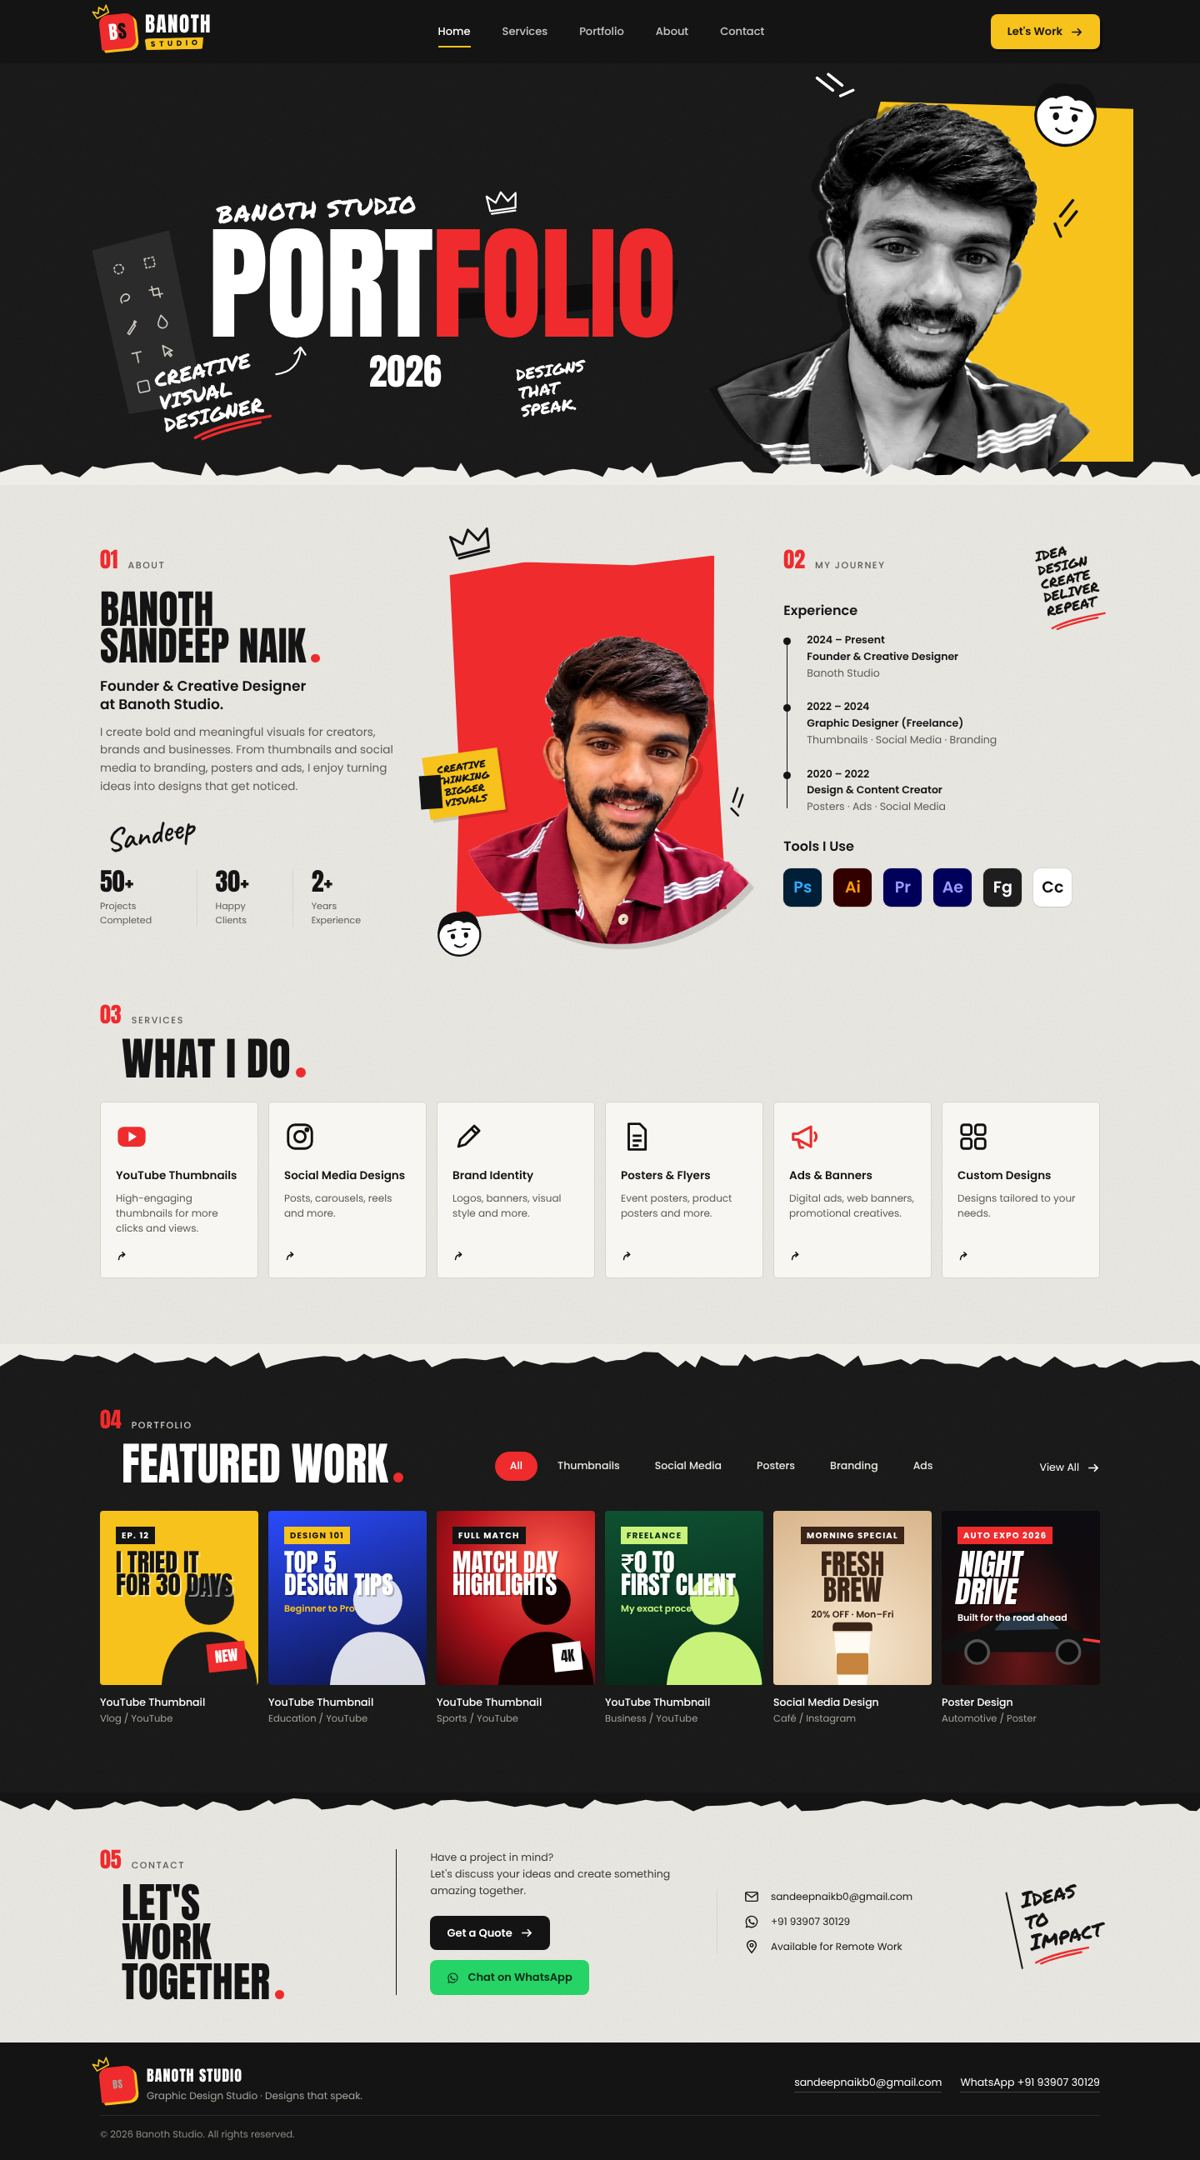
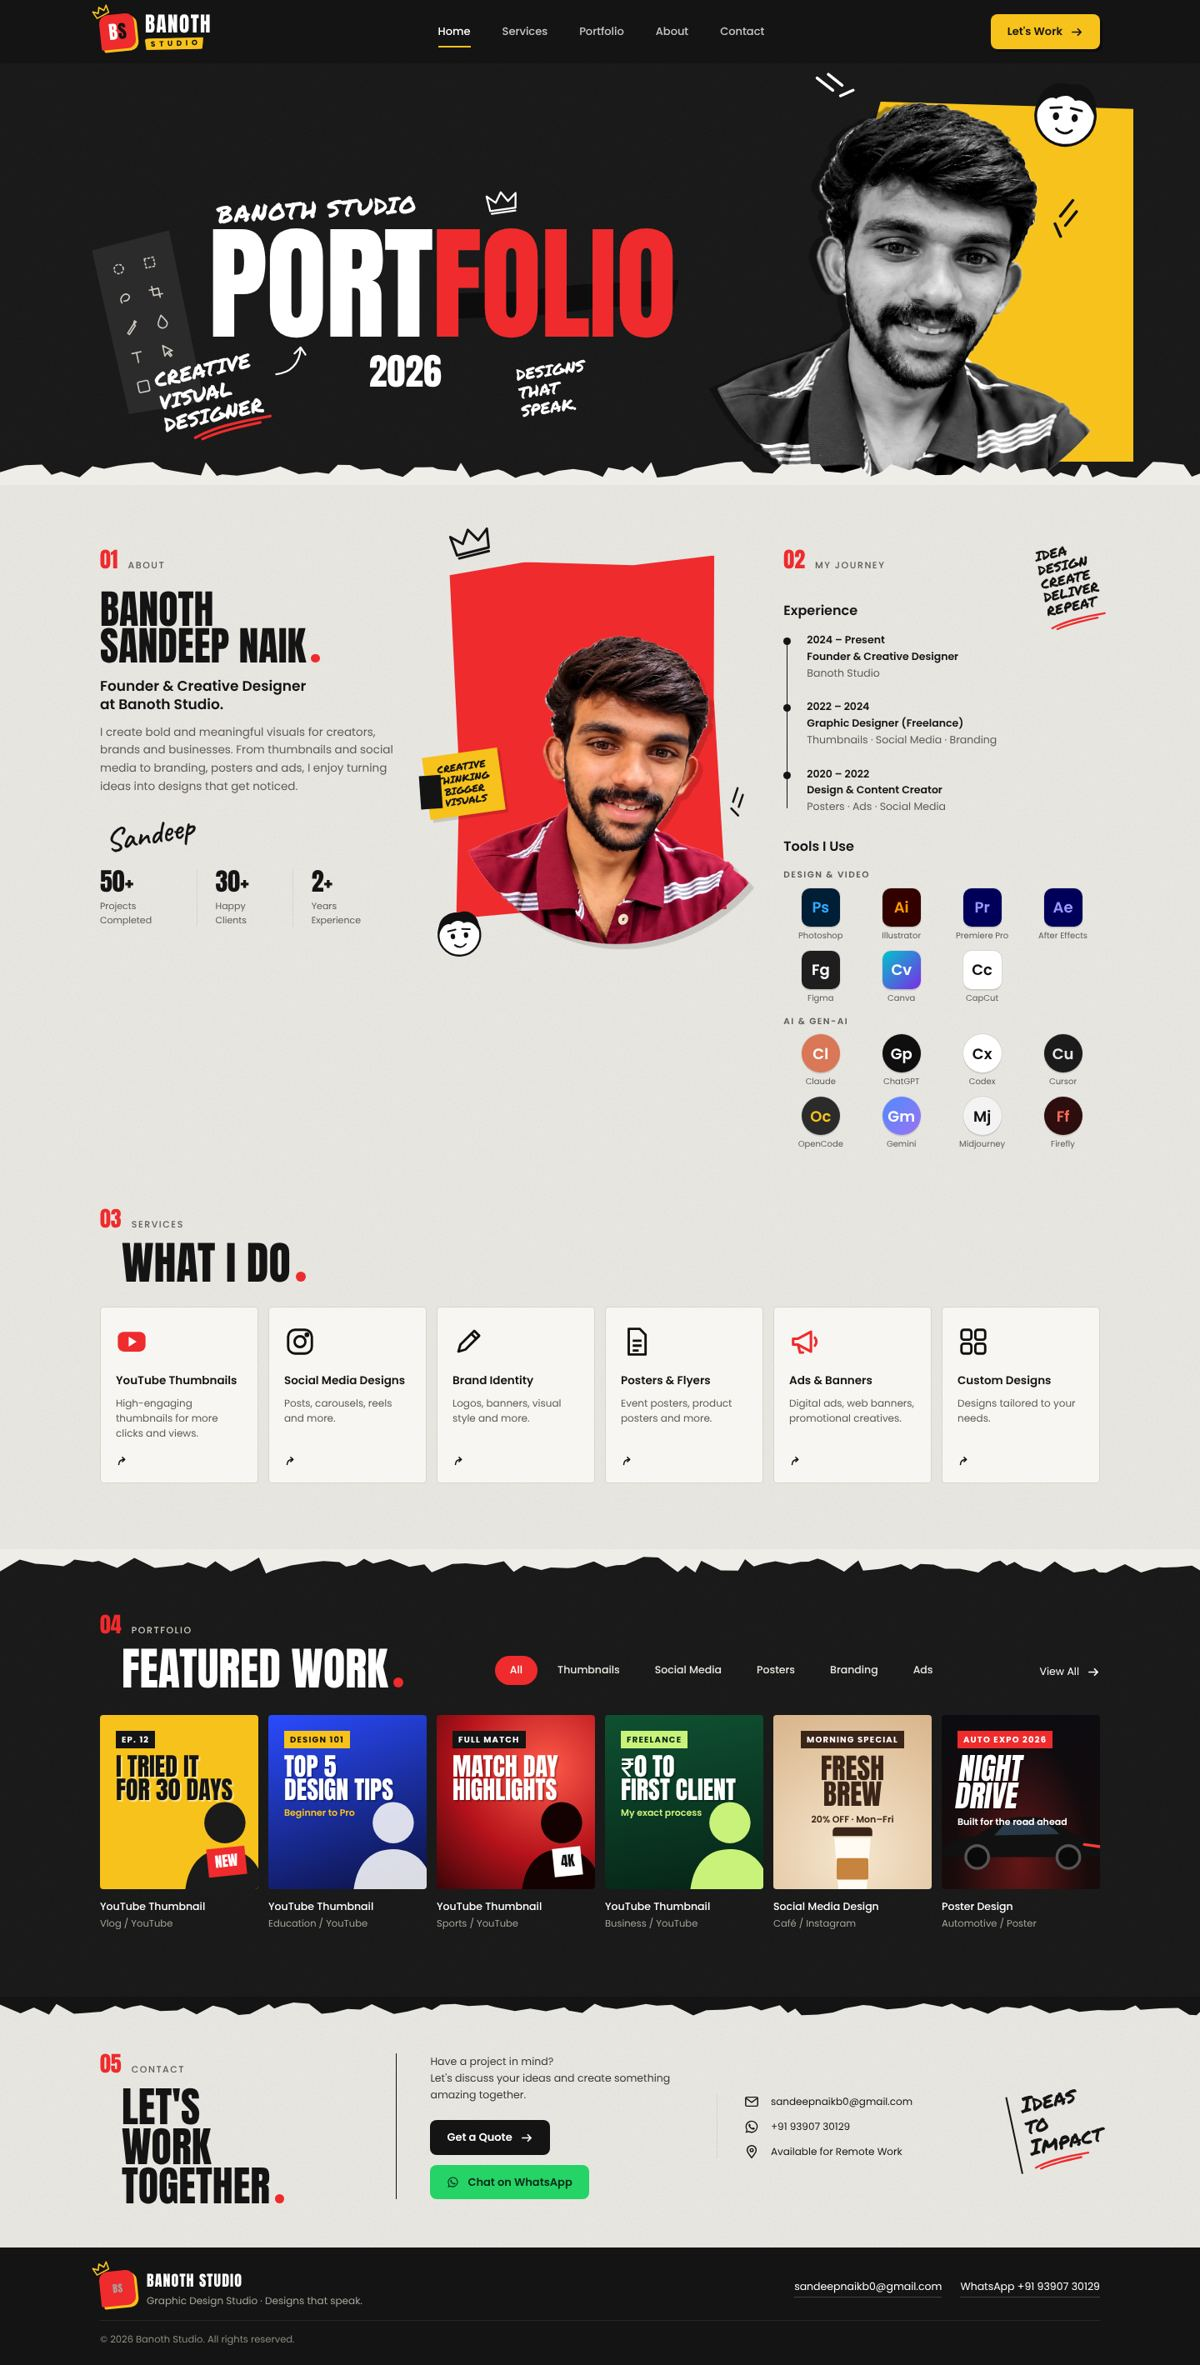
Add Canva and AI tools section
Tools I Use now has two groups: Design & Video (adds Canva) and
AI & Gen-AI (Claude, ChatGPT, Codex, Cursor, OpenCode, Gemini,
Midjourney, Firefly), each tile labelled with the tool name.

Changed region(s): [[0.0, 0.0, 1.0, 0.9926], [0.0617, 0.0, 0.185, 0.031], [0.37, 0.0, 0.4008, 0.031]]

diff --git a/app/page.js b/app/page.js
@@ -20,7 +20,19 @@ const tools = [
   { k: 'Pr', name: 'Premiere Pro', bg: '#00005b', fg: '#9999ff' },
   { k: 'Ae', name: 'After Effects', bg: '#00005b', fg: '#9999ff' },
   { k: 'Fg', name: 'Figma', bg: '#1e1e1e', fg: '#ffffff' },
+  { k: 'Cv', name: 'Canva', bg: 'linear-gradient(135deg,#00c4cc,#7d2ae8)', fg: '#ffffff' },
   { k: 'Cc', name: 'CapCut', bg: '#ffffff', fg: '#111111' },
+];
+
+const aiTools = [
+  { k: 'Cl', name: 'Claude', bg: '#d97757', fg: '#ffffff' },
+  { k: 'Gp', name: 'ChatGPT', bg: '#0f0f0f', fg: '#ffffff' },
+  { k: 'Cx', name: 'Codex', bg: '#ffffff', fg: '#111111' },
+  { k: 'Cu', name: 'Cursor', bg: '#1b1b1b', fg: '#e8e8e8' },
+  { k: 'Oc', name: 'OpenCode', bg: '#2b2b2b', fg: '#f7c21b' },
+  { k: 'Gm', name: 'Gemini', bg: 'linear-gradient(135deg,#4f8bff,#9b72f2)', fg: '#ffffff' },
+  { k: 'Mj', name: 'Midjourney', bg: '#f3f3f3', fg: '#111111' },
+  { k: 'Ff', name: 'Firefly', bg: '#2d0d0d', fg: '#ff6b5a' },
 ];
 
 const Icon = {
@@ -203,10 +215,21 @@ export default function Home() {
               ))}
             </ol>
             <h3 className="sub">Tools I Use</h3>
+            <p className="tools-label">Design &amp; Video</p>
             <ul className="tools">
               {tools.map((t) => (
-                <li key={t.k} title={t.name} style={{ background: t.bg, color: t.fg }}>
-                  {t.k}
+                <li key={t.k}>
+                  <span className="tool-tile" style={{ background: t.bg, color: t.fg }} aria-hidden="true">{t.k}</span>
+                  <span className="tool-name">{t.name}</span>
+                </li>
+              ))}
+            </ul>
+            <p className="tools-label">AI &amp; Gen-AI</p>
+            <ul className="tools tools--ai">
+              {aiTools.map((t) => (
+                <li key={t.k}>
+                  <span className="tool-tile" style={{ background: t.bg, color: t.fg }} aria-hidden="true">{t.k}</span>
+                  <span className="tool-name">{t.name}</span>
                 </li>
               ))}
             </ul>

diff --git a/app/globals.css b/app/globals.css
@@ -307,11 +307,17 @@ section, header.hero { scroll-margin-top: 70px; }
 .timeline li::before { content: ""; position: absolute; left: -28px; top: 6px; width: 9px; height: 9px; border-radius: 50%; background: var(--ink); }
 .t-years, .t-role { font-weight: 600; }
 .t-at { color: var(--muted); }
-.tools { display: flex; flex-wrap: wrap; gap: 14px; margin-top: 14px; }
-.tools li {
-  width: 46px; height: 46px; border-radius: 9px; display: grid; place-items: center;
-  font-weight: 600; font-size: 19px; box-shadow: 0 1px 0 #0001, 0 0 0 1px #0000000f;
+.tools-label { font-size: 10.5px; font-weight: 600; letter-spacing: .14em; text-transform: uppercase; color: var(--muted); margin-top: 14px; }
+.tools { display: grid; grid-template-columns: repeat(4, minmax(0, 1fr)); gap: 12px 8px; margin-top: 8px; }
+.tools li { display: grid; justify-items: center; gap: 5px; min-width: 0; }
+.tool-tile {
+  width: 46px; height: 46px; border-radius: 10px; display: grid; place-items: center;
+  font-weight: 600; font-size: 18px; box-shadow: 0 0 0 1px #0000000f, 0 2px 0 #00000014;
+  transition: transform .2s ease;
 }
+.tools li:hover .tool-tile { transform: translateY(-3px) rotate(-4deg); }
+.tool-name { font-size: 10px; color: var(--muted); text-align: center; line-height: 1.2; }
+.tools--ai .tool-tile { border-radius: 50%; }
 
 /* ───────── SERVICES ───────── */
 .services { padding-block: 34px 80px; }
@@ -514,8 +520,6 @@ section, header.hero { scroll-margin-top: 70px; }
   .stats dt { font-size: 28px; }
   .idea { font-size: 12px; top: -4px; }
   .timeline li { font-size: 13px; }
-  .tools { gap: 10px; }
-  .tools li { width: 44px; height: 44px; font-size: 17px; }
 
   .section-title { margin-left: 0; font-size: 44px; }
   .services { padding-block: 26px 70px; }

diff --git a/README.md b/README.md
@@ -46,6 +46,7 @@ YouTube thumbnails · Social media · Brand identity · Posters · Ads
 | 🎬 **Intro loader** | Logo stamp, rising wordmark, progress bar. Plays once and lifts away with a torn-paper edge. Pure CSS. |
 | 📌 **Sticky navbar** | Stays on top, compacts on scroll, highlights the section on screen. |
 | 📱 **Mobile menu** | Full-screen menu that opens in a circle from the button, with staggered links. Closes on link tap or <kbd>Esc</kbd>. |
+| 🧰 **Tools I Use** | Design & video tools (Photoshop, Illustrator, Premiere Pro, After Effects, Figma, Canva, CapCut) and AI tools (Claude, ChatGPT, Codex, Cursor, OpenCode, Gemini, Midjourney, Firefly). |
 | 🗂 **Portfolio filter** | All / Thumbnails / Social Media / Posters / Branding / Ads. Works without JavaScript. |
 | 💬 **Direct contact** | *Get a Quote* opens a pre-filled email. *Chat on WhatsApp* opens a chat with a ready message. |
 | ✂ **Torn-paper style** | Ripped edges, marker notes, doodles and tape. All drawn in SVG/CSS, no image files. |
@@ -91,7 +92,7 @@ Open **http://localhost:3000**.
 banothstudio/
 ├── app/
 │   ├── layout.js        # fonts, metadata, viewport
-│   ├── page.js          # all sections + content arrays
+│   ├── page.js          # all sections + content arrays (services, tools, aiTools, work)
 │   └── globals.css      # design tokens, layout, responsive rules
 ├── components/
 │   ├── Nav.js           # sticky navbar + mobile menu (client)
